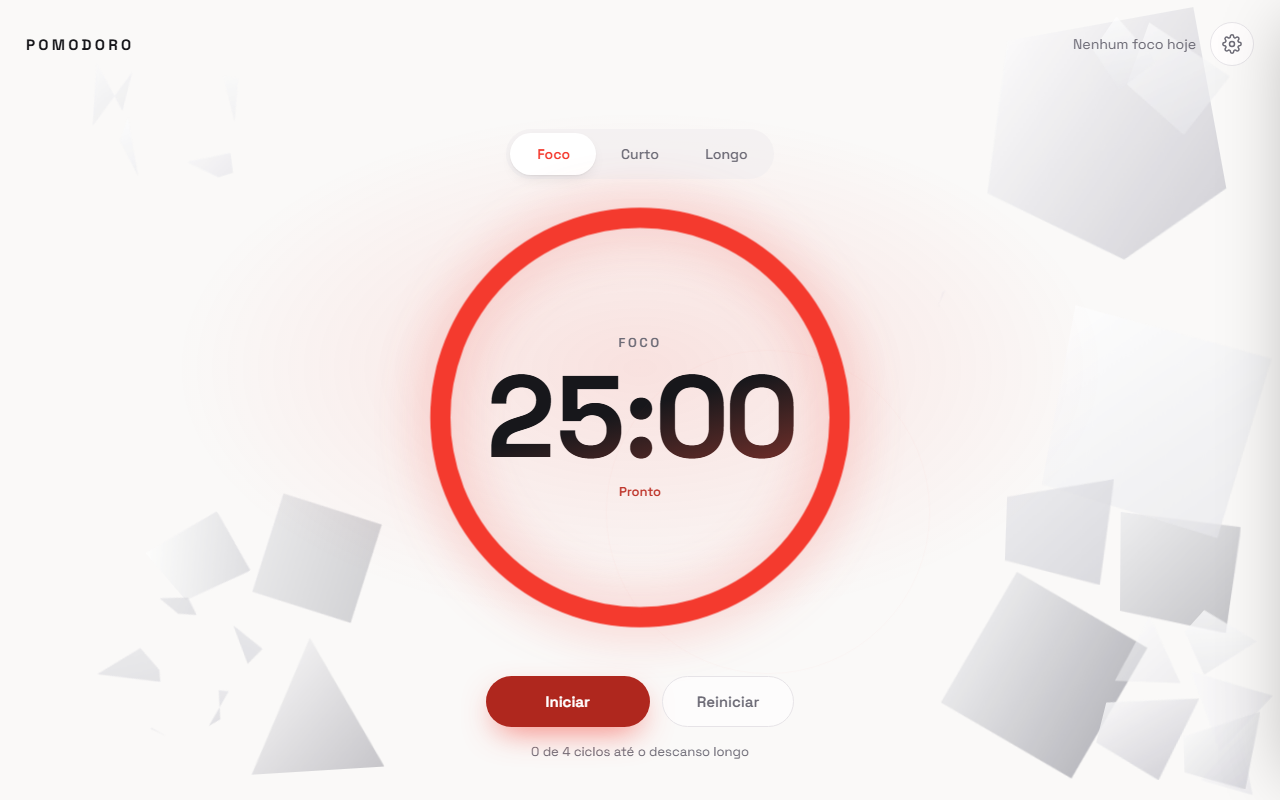
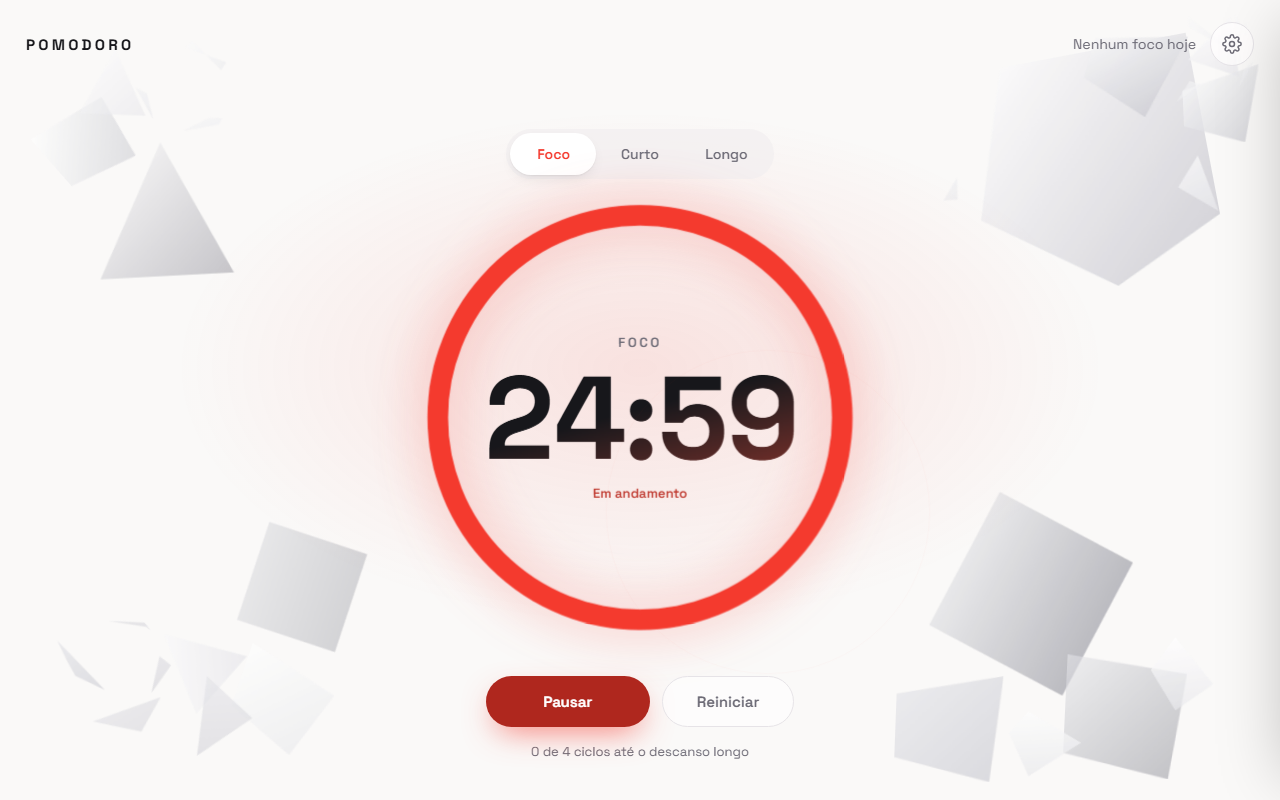
docs: add demo gif and focus-mode screenshots

diff --git a/README.md b/README.md
@@ -9,6 +9,14 @@ você trabalha.
 
 ---
 
+## ▶ Veja em ação
+
+Um polígono se fragmenta com o clique e se reconstrói sozinho após alguns segundos:
+
+![Pomodoro — explosão e reconstrução](docs/screenshots/pomodoro-demo.gif)
+
+---
+
 ## 🖼 O que você vê
 
 ![Pomodoro — desktop](docs/screenshots/review-pomodoro-desktop-1280.png)
